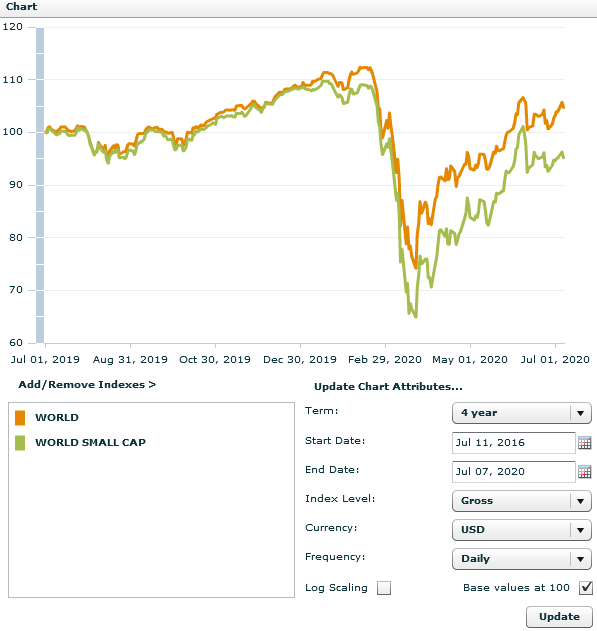
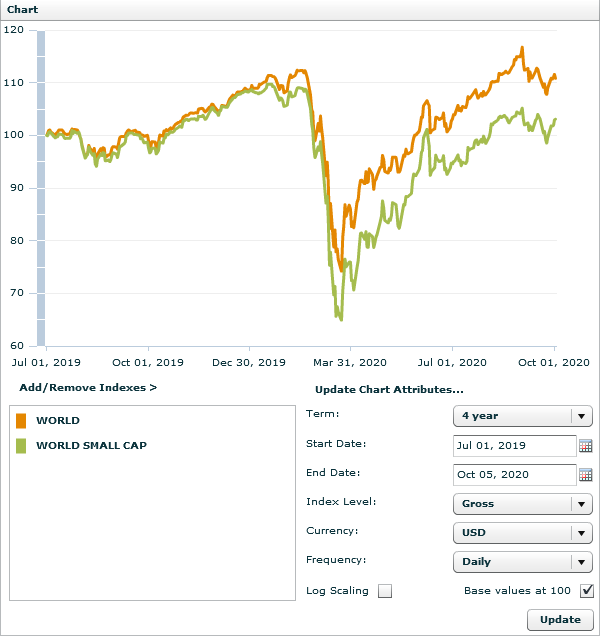
Update bet-of-the-decade

Changed region(s): [[0.0, 0.0, 1.0, 1.0], [0.0, 0.1807, 0.0302, 0.2409]]

diff --git a/blog/bet-of-the-decade.html b/blog/bet-of-the-decade.html
@@ -118,17 +118,17 @@
 <p class="paragraph"><b>מדוע דווקא המדדים הללו?</b> כיוון שמדדי מניות קטנות מספקים תשואה היסטורית (נומינלית) של כ-12% לשנה בממוצע רב-שנתי, ומדדי מניות גדולות מספקים תשואה של כ-10% לשנה בממוצע רב-שנתי, יש היגיון בחשיפה משמעותית של התיק גם למניות קטנות ולא רק למניות גדולות או מניות ענק כמו המניות הכלולות במדד ה-S&P 500 למשל (כמובן שהתשואה העודפת באה ע"ח תנודתיות גבוהה יותר). הסיבה לבחירת שני מדדים ולא מדד גלובלי אחד שכולל גם חברות גדולות וגם קטנות (כדוגמת MSCI World All Cap Index) היא שהמשקל של כמה מאות מניות ענק במדד עולמי אחד מהווה כ-80-90% מכלל המדד, כך שאלפי חברות קטנות יותר מקבלות חשיפה מאוד נמוכה. לכן, בחר רונן להקצות 50% מהתיק למדד מניות גדולות ו-50% למדד מניות קטנות. אין לראות בתיק זה משום המלצה לביצוע פעולה בניירות ערך או לייעוץ השקעות המתחשב בצרכיו הייחודיים של כל אדם.</p>
 
 <p class="paragraph" style="padding-top: 20px; font-size:22px; color: #008000" id="results">תוצאות ההתערבות</p>
-<p class="paragraph">התוצאות שלהלן הינן התוצאות המצטברות ממועד תחילת ההתערבות (ה-1.7.2019) ועד ה-7.7.2020. נכון למועד זה:</p>
-<p class="paragraph">התיק של יואב השיג תשואה מצטברת שלילית של <b>12.35%-</b>.</p>
-<p class="paragraph">התיק של רונן השיג תשואה מצטברת שלילית אפסית של <b>0.09%-</b>.</p>
-<p class="paragraph">הפרש התשואות עומד כרגע על <b>12.26%</b> לזכות התיק של רונן, קיטון של 1% בהפרש התשואות מהרבעון הקודם.</p>
+<p class="paragraph">התוצאות שלהלן הינן התוצאות המצטברות ממועד תחילת ההתערבות (ה-1.7.2019) ועד ה-5.10.2020. נכון למועד זה:</p>
+<p class="paragraph">התיק של יואב השיג תשואה מצטברת שלילית של <b>14.82%-</b>.</p>
+<p class="paragraph">התיק של רונן השיג תשואה מצטברת חיובית של <b>6.95%</b>.</p>
+<p class="paragraph">הפרש התשואות עומד כרגע על <b>21.77%</b> לזכות התיק של רונן, המהווה גידול של 9.5% בהפרש התשואות מהרבעון הקודם.</p>
 <br>
 <p class="paragraph" style="font-size:18px;">סיכום תוצאות התיק של יואב</p>
-<p class="paragraph">התיק של יואב התחיל משווי של $3,455, ובנטרול עמלות הקניה החד פעמיות ($158) כמתואר בפרטי ההתערבות שלעיל, עמד על שווי של $3,613. נכון למועד הדיווח התיק עמד על שווי של $3,046 (10,503 ש"ח), כלומר שווי של $3,204 בנטרול עמלת הקניה, שווי המגלם תשואה שלילית של 11.32%-. בניכוי דמי הניהול המצטברים ($37) עומדת התשואה על 12.35%-. הטבלה שלהלן מפרטת את התשואות של כל אחת מהמניות בתיק של יואב.</p>
+<p class="paragraph">התיק של יואב התחיל משווי של $3,455, ובנטרול עמלות הקניה החד פעמיות ($158) כמתואר בפרטי ההתערבות שלעיל, עמד על שווי של $3,613. נכון למועד הדיווח התיק עמד על שווי של $2,966 (10,139.66 ש"ח), כלומר שווי של $3,124 בנטרול עמלת הקניה, שווי המגלם תשואה שלילית של 13.54%-. בניכוי דמי הניהול המצטברים ($46) עומדת התשואה על 14.82%-. הטבלה שלהלן מפרטת את התשואות של כל אחת מהמניות בתיק של יואב.</p>
 <p class="paragraph" style="text-align: center;"><img src="../images/results-yoav.png" alt="results-yoav"></p>
 <br>
 <p class="paragraph" style="font-size:18px;">סיכום תוצאות התיק של רונן</p>
-<p class="paragraph">התיק של רונן התחיל משווי של $200 ($100 לכל מדד) ועמד נכון למועד הדיווח על שווי כמעט זהה של $199.83, המגלם תשואה שלילית של 0.09%-. הגרף שלהלן מציג את התשואה של שני המדדים בתיק של רונן.</p>
+<p class="paragraph">התיק של רונן התחיל משווי של $200 ($100 לכל מדד) ועמד נכון למועד הדיווח על שווי של $213.89, המגלם תשואה של 6.95%. הגרף שלהלן מציג את התשואה של שני המדדים בתיק של רונן.</p>
 <p class="paragraph" style="text-align: center;"><img src="../images/results-ronen.png" alt="results-ronen"></p>
 <br>
 <script type='text/javascript' src='//form.ravpage.co.il/fbafa30d95b851a0b3ba5984f76428c55E9FF981' charset='UTF-8'></script>
